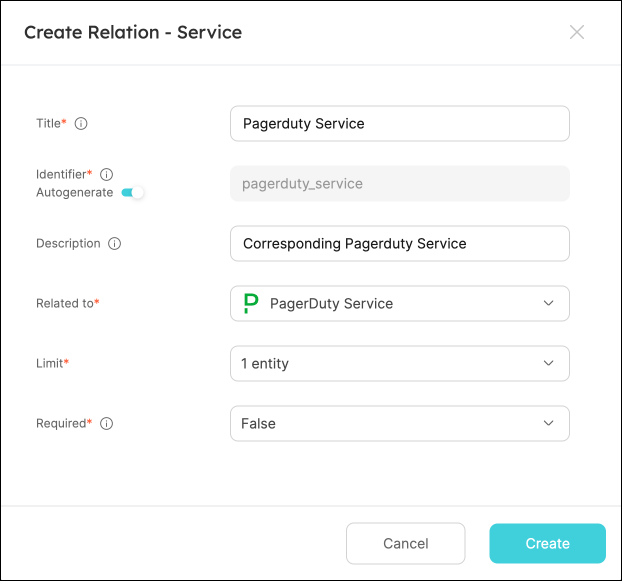
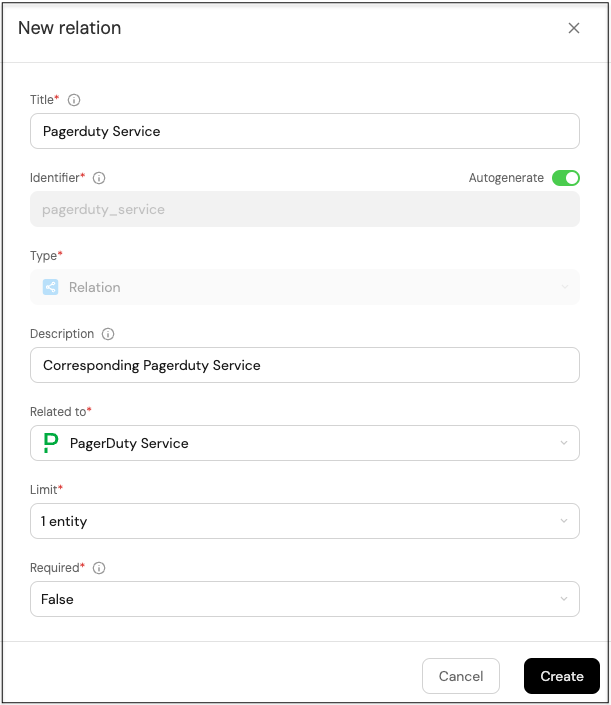
change guides photos to the exisitng design and changed minor terminology

diff --git a/docs/guides/all/ensure-production-readiness.md b/docs/guides/all/ensure-production-readiness.md
@@ -220,7 +220,7 @@ Let's see how we can easily ingest a CODEOWNERS file into our existing services:
 
 4. Under `Exporters`, click on the Github exporter with your organization name.
 
-5. In the mapping YAML (the bottom-left panel), add the line `code_owners: file://CODEOWNERS` as shown here, then click `Resync`:
+5. In the mapping YAML (the bottom-left panel), add the line `code_owners: file://CODEOWNERS` as shown here, then click `Save & Resync`:
 
 <img src='/img/guides/prodReadinessMappingAddCodeOwners.png' width='70%' border='1px' />
 <br/><br/>

diff --git a/docs/guides/all/scaffold-a-new-service.md b/docs/guides/all/scaffold-a-new-service.md
@@ -44,7 +44,7 @@ After completing it, you will get a sense of how it can benefit different person
 <TabItem value="github-gitlab-bitbucket">
 
 1. Head to the [Self-service page](https://app.getport.io/self-serve) of your portal.
-2. Click on the `+ Action` button in the top-right corner:
+2. Click on the `+ Action` button in the top-right corner (or in the middle if there are no actions yet):
 
     <img src='/img/guides/addActionIcon.png' width='35%' border='1px' />
 
